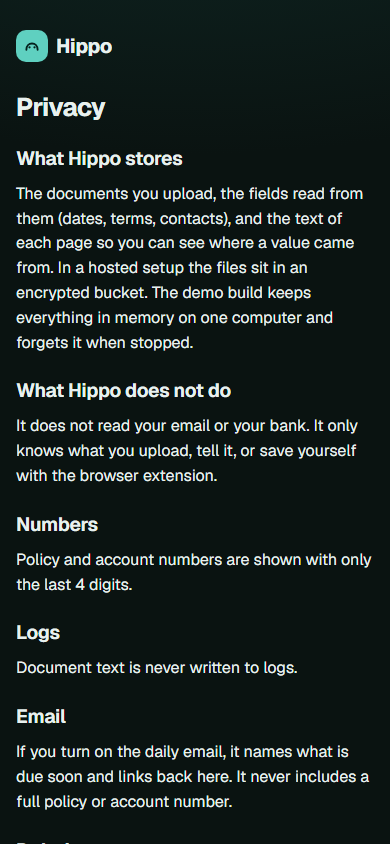
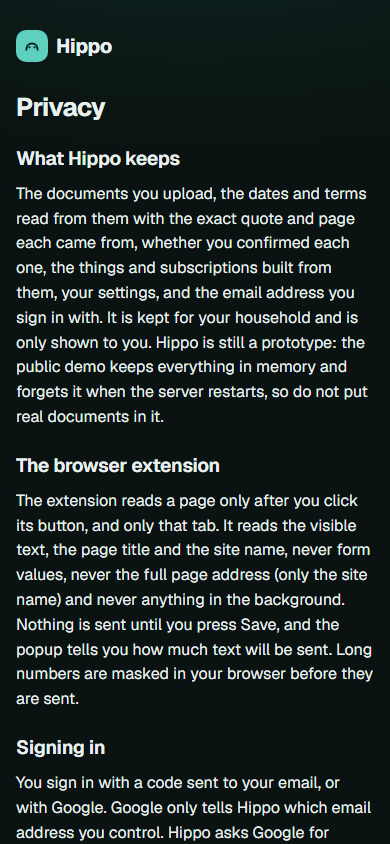
fix(web): keep the dates visible in the phone review bar, announce a resent code, and make the hosted-facing copy truthful

Changed region(s): [[0.0308, 0.2156, 0.9538, 1.0], [0.3077, 0.1848, 0.4615, 0.2156]]

diff --git a/apps/web/src/pages/SignIn.tsx b/apps/web/src/pages/SignIn.tsx
@@ -13,6 +13,9 @@ const POINTS = [
   "Delete everything with one button, any time.",
 ];
 
+/** The server log only holds the code when the server runs on this computer. */
+const LOCAL = ["localhost", "127.0.0.1", "[::1]"].includes(window.location.hostname);
+
 export function SignIn() {
   const { status, refresh } = useAuth();
   const nav = useNavigate();
@@ -20,6 +23,7 @@ export function SignIn() {
   const [email, setEmail] = useState("");
   const [code, setCode] = useState("");
   const [sent, setSent] = useState(false);
+  const [resent, setResent] = useState(0);
   const [error, setError] = useState<string | null>(null);
   const [busy, setBusy] = useState(false);
   const [waitUntil, setWaitUntil] = useState(0);
@@ -117,7 +121,11 @@ export function SignIn() {
                 </div>
                 <p className="banner banner-ok" role="status">
                   <CheckCircle2 size={20} aria-hidden="true" />
-                  <span>Code sent. It can take a minute to arrive.</span>
+                  <span>
+                    {resent > 0
+                      ? "A new code was sent. The earlier one no longer works."
+                      : "Code sent. It can take a minute to arrive."}
+                  </span>
                 </p>
               </>
             ) : (
@@ -159,8 +167,8 @@ export function SignIn() {
                     value={code}
                     onChange={(e) => setCode(e.target.value)}
                   />
-                  {!HOSTED && (
-                    <p className="muted small signin-hint">In this demo build the code is printed in the server log.</p>
+                  {!HOSTED && LOCAL && (
+                    <p className="muted small signin-hint">On this computer the code is printed in the server log.</p>
                   )}
                 </div>
               ) : (
@@ -190,7 +198,9 @@ export function SignIn() {
                   type="button"
                   className="btn btn-quiet btn-block"
                   disabled={off}
-                  onClick={() => void run(async () => (await api.magicCode(email.trim()), setCode("")))}
+                  onClick={() =>
+                    void run(async () => (await api.magicCode(email.trim()), setCode(""), setResent((n) => n + 1)))
+                  }
                 >
                   Send a new code
                 </button>

diff --git a/apps/web/src/pages/Legal.tsx b/apps/web/src/pages/Legal.tsx
@@ -4,11 +4,11 @@ import { Brand, Footer } from "../components/Layout";
 const PRIVACY: [string, string][] = [
   [
     "What Hippo keeps",
-    "The documents you upload, the dates and terms read from them with the exact quote and page each came from, whether you confirmed each one, the things and subscriptions built from them, your settings, and the email address you sign in with. It is kept for your household and is only shown to you.",
+    "The documents you upload, the dates and terms read from them with the exact quote and page each came from, whether you confirmed each one, the things and subscriptions built from them, your settings, and the email address you sign in with. It is kept for your household and is only shown to you. Hippo is still a prototype: the public demo keeps everything in memory and forgets it when the server restarts, so do not put real documents in it.",
   ],
   [
     "The browser extension",
-    "The extension reads a page only after you click its button, and only that tab. It reads the visible text, the page title and the site name, never form values, never the page address and never anything in the background. Nothing is sent until you press Save, and the popup tells you how much text will be sent. Long numbers are masked in your browser before they are sent.",
+    "The extension reads a page only after you click its button, and only that tab. It reads the visible text, the page title and the site name, never form values, never the full page address (only the site name) and never anything in the background. Nothing is sent until you press Save, and the popup tells you how much text will be sent. Long numbers are masked in your browser before they are sent.",
   ],
   [
     "Signing in",

diff --git a/apps/web/e2e/d-layout.spec.ts b/apps/web/e2e/d-layout.spec.ts
@@ -45,7 +45,7 @@ test("phone tab bar fits at every width and the review bar is one row above it",
       expect(lb.x + lb.width, `${name} label right at ${w}`).toBeLessThanOrEqual(box.x + box.width + 0.5);
       expect(lb.height, `${name} label wraps at ${w}`).toBeLessThan(20);
     }
-    // The review bar: count and button on one row, chips hidden on a phone, clear of the tab bar.
+    // The review bar: count and button on one row, the dates under them in a row that scrolls sideways, clear of the tab bar.
     const bar = page.locator(".sticky-bar");
     const barBox = (await bar.boundingBox())!;
     const count = (await bar.locator("strong").boundingBox())!;
@@ -53,7 +53,13 @@ test("phone tab bar fits at every width and the review bar is one row above it",
     expect(Math.abs(count.y + count.height / 2 - (btn.y + btn.height / 2)), `bar row at ${w}`).toBeLessThan(12);
     expect(barBox.y + barBox.height, `bar clears tabs at ${w}`).toBeLessThanOrEqual(navBox.y);
     expect(barBox.x + barBox.width).toBeLessThanOrEqual(w);
-    await expect(bar.getByRole("list")).toBeHidden();
+    // The dates are visible inside the bar, and the row scrolls itself instead of widening the page.
+    const list = bar.getByRole("list");
+    await expect(list).toBeVisible();
+    const lb = (await list.boundingBox())!;
+    expect(lb.x, `dates left at ${w}`).toBeGreaterThanOrEqual(barBox.x - 0.5);
+    expect(lb.x + lb.width, `dates right at ${w}`).toBeLessThanOrEqual(barBox.x + barBox.width + 0.5);
+    await expect(list.getByRole("listitem").first()).toBeVisible();
     await noSidewaysScroll(page, `review ${w}`);
   }
 });

diff --git a/apps/web/src/index.css b/apps/web/src/index.css
@@ -1086,29 +1086,44 @@ mark {
   justify-content: space-between;
   flex-wrap: wrap;
 }
-/* Phone: one compact row, count on the left and the button on the right. The dates themselves are in the field
-   cards above, so the chips are hidden here (they stay mounted, so the "shown" check still holds). */
+/* Phone: count and button on the first row, and under them the dates this will confirm in a row that scrolls sideways,
+   so the bar always shows what one tap confirms. */
 @media (max-width: 820px) {
   .sticky-bar {
     bottom: calc(80px + env(safe-area-inset-bottom));
     padding: var(--s2) var(--s3);
-    flex-wrap: nowrap;
-    gap: var(--s3);
+    display: grid;
+    grid-template-columns: 1fr auto;
+    align-items: center;
+    gap: var(--s2) var(--s3);
   }
   .sticky-bar > .stack {
-    flex: 1;
-    min-width: 0;
+    display: contents;
   }
   .sticky-bar > .stack > strong {
+    grid-column: 1;
+    grid-row: 1;
     font-size: 0.9rem;
     line-height: 1.25;
   }
-  .sticky-bar > .stack > ul {
-    display: none;
-  }
   .sticky-bar > .btn {
-    flex: none;
+    grid-column: 2;
+    grid-row: 1;
     white-space: nowrap;
+  }
+  .sticky-bar > .stack > ul {
+    grid-column: 1 / -1;
+    grid-row: 2;
+    display: flex;
+    flex-wrap: nowrap;
+    gap: var(--s2);
+    min-width: 0;
+    overflow-x: auto;
+    padding-bottom: var(--s1);
+    scrollbar-width: thin;
+  }
+  .sticky-bar > .stack > ul > li {
+    flex: none;
   }
 }
 @media (max-width: 340px) {

diff --git a/apps/web/src/landing/Rest.tsx b/apps/web/src/landing/Rest.tsx
@@ -46,7 +46,8 @@ export function Planned() {
       <p className="lp-lead">
         Open a billing page or a receipt, click Hippo, and press Save. Nothing is read until you click and nothing is
         sent until you press Save. Hippo adds the subscription to your list, and nothing alerts you until you confirm
-        its dates. The extension is being prepared for the Chrome Web Store.
+        its dates. The extension is being prepared for the Chrome Web Store. Today it saves to a Hippo server running on
+        your own computer.
       </p>
       <div className="lp-browser" aria-hidden="true">
         <div className="lp-browser-bar">

diff --git a/apps/web/test/pages.test.tsx b/apps/web/test/pages.test.tsx
@@ -293,6 +293,7 @@ describe("Sign in", () => {
     expect(screen.queryByRole("button", { name: "Use the demo account" })).toBeNull();
     await userEvent.click(screen.getByRole("button", { name: "Send a new code" }));
     expect(send).toHaveBeenCalledTimes(2);
+    expect(await screen.findByRole("status")).toHaveTextContent("A new code was sent");
     await userEvent.click(screen.getByRole("button", { name: "Use a different email" }));
     expect(await screen.findByRole("heading", { name: "Sign in" })).toBeInTheDocument();
   });

diff --git a/apps/web/src/pages/Review.tsx b/apps/web/src/pages/Review.tsx
@@ -256,7 +256,7 @@ export function Review() {
             <strong>
               {waitingDates.length} {waitingDates.length === 1 ? "date" : "dates"} to confirm
             </strong>
-            <ul className="row" aria-label="Dates this will confirm">
+            <ul className="row" aria-label="Dates this will confirm" tabIndex={0}>
               {waitingDates.map((f) => (
                 <ShownDate key={f.name} name={f.name} onShown={onShown}>
                   <span className="chip chip-warn num">

diff --git a/decisions.md b/decisions.md
@@ -175,3 +175,10 @@ No decisions log exists on main (MEMORY.md is only in old worktrees), so this fi
 - **Correction to the audit:** the popup is fixed at 360 px in every state. The wider look in a screenshot was screen scaling.
 - **Open, not fixable by UI:** saving a page is refused on any hosted server (`isLocalOnly`) and the manifest only allows localhost, so the extension cannot serve real users until a hosted capture path exists. Listed as blocker 1 in `apps/extension/store/listing.md`. Owner decisions: publisher name, support contact, legal review of the privacy and terms text.
 - **Checked:** web 133, extension 35 tests, rendered popup and every store image looked at. Not checked: real Chrome popup, Web Store review.
+
+## 2026-11-01: reviewer fixes for the UI pass (+claude)
+- **Blocking, fixed:** on a phone the Review bar hid the date chips by CSS while the "every date was shown" check still counted them, so one tap confirmed dates the bar did not show. The chips now stay visible as a row under the count and button that scrolls sideways (focusable, labelled "Dates this will confirm", needed for axe `scrollable-region-focusable`). `d-layout.spec.ts` now asserts they are visible and inside the bar instead of asserting they are hidden.
+- **Copy made truthful:** the sign in hint about the server log shows only on localhost; the landing page and privacy text say saving works today against a server on your own computer and that the public demo forgets everything on restart; the listing's data answer says no model or outside processor is used for saved pages today and must be revisited if that changes.
+- **Accessibility:** "Send a new code" now announces "A new code was sent" in the status region.
+- **Left open:** the demo button still shows on any build not marked hosted, because the page cannot ask the server whether the demo is on (needs `/oauth/providers` to report it, in `packages/auth`).
+- **Checked:** web 133 tests, all 8 Playwright tests including axe on every page at 1280 and 390 in light and dark.

diff --git a/apps/extension/store/listing.md b/apps/extension/store/listing.md
@@ -38,7 +38,7 @@ What it does not do
 
 ## Privacy practices form (answers must match the privacy policy)
 - Collects: the visible text of the page you save, the page title and site name, and your sign in email. Nothing else.
-- Does not sell or transfer data to third parties, does not use it for ads or credit decisions.
+- Does not sell or transfer data to third parties, does not use it for ads or credit decisions. Saved pages are read by Hippo's own rules on its own server; no model and no outside processor is used for them today. If that changes (docs/PRIVACY.md mentions a hosted model service for uploaded documents), this answer and the privacy policy must name it before publishing.
 - Remote code: none.
 - Privacy policy URL: the public address of the Hippo Privacy page (see blockers).
 
